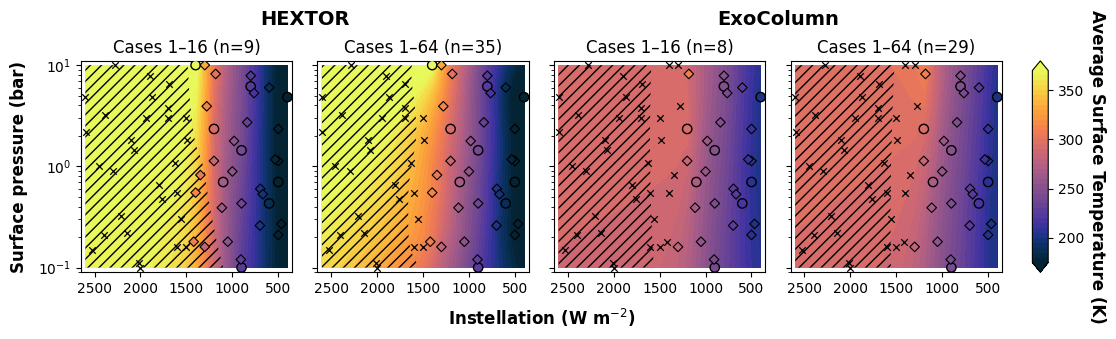
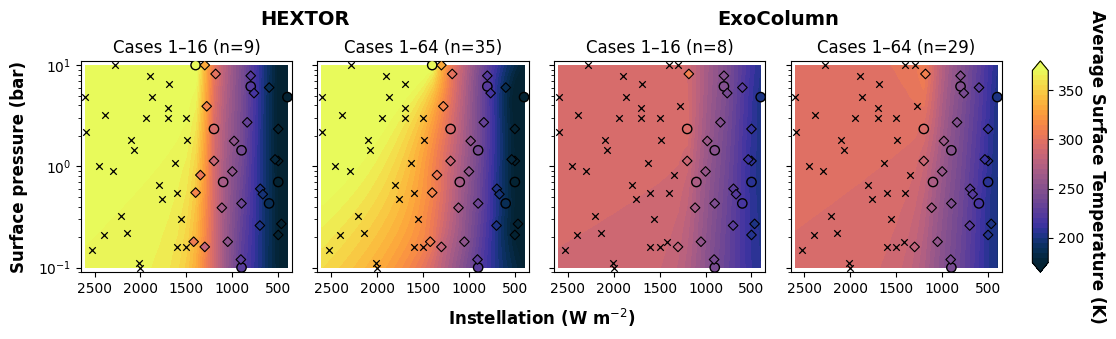
Remove the hatching from Figure 18
The kriging and every printed number are unchanged; only the sigma
hatching and its warm-edge helper are gone.

diff --git a/figures/allcases/fig_interpolation_temp_1d.py b/figures/allcases/fig_interpolation_temp_1d.py
@@ -23,7 +23,6 @@ import cmocean
 
 from matplotlib.transforms import offset_copy
 from pykrige.ok import OrdinaryKriging
-from scipy import ndimage
 
 # Axis labels in bold, and set a little clear of the tick labels
 plt.rcParams[ 'axes.labelweight' ] = 'bold'
@@ -34,7 +33,6 @@ cm              = cmocean.cm.thermal
 contourmin      = 175.0
 contourmax      = 370.0
 cinterval       = 40
-sigma_threshold = 45.0      # K; hatch where kriging σ exceeds this
 cbar_label      = 'Average Surface Temperature (K)'
 cbar_ticks      = np.arange( 200, 370, 50 )
 # ─────────────────────────────────────────────────────────────────────────────
@@ -132,13 +130,6 @@ def kriging( fs, ps, vals, aniso ):
                             anisotropy_scaling=aniso, variogram_model='linear',
                             verbose=False, enable_plotting=False, exact_values=True )
 
-# Of the regions where σ exceeds the threshold, hatch only those reaching the
-# highest instellation on the grid, as in fig_interpolation_temp.py.
-def warm_edge_sigma( sigma ):
-    regions, _ = ndimage.label( sigma > sigma_threshold, structure=np.ones( ( 3, 3 ) ) )
-    dropped    = np.setdiff1d( regions, np.append( regions[ -1, : ], 0 ) )
-    return np.where( np.isin( regions, dropped ), 0.0, sigma )
-
 
 def out_of_sample( name ):
     """The 16-case kriging of one model evaluated at its new stable cases."""
@@ -163,10 +154,8 @@ if __name__ == '__main__':
         temps = MODELS[ name ]
         fs, ps, vals, _ = samples( temps, last )
         aniso = ( ANISO_16 if last == 16 else ANISO_64 )[ name ]
-        z, var = kriging( fs, ps, vals, aniso ).execute( 'grid', norm_pres( pn2 ), norm_flux( flux ) )
+        z, _ = kriging( fs, ps, vals, aniso ).execute( 'grid', norm_pres( pn2 ), norm_flux( flux ) )
         cf = ax.contourf( yv*fluxscale, xv, z, cmap=cm, levels=levels, extend='both' )
-        ax.contourf( yv*fluxscale, xv, warm_edge_sigma( np.sqrt( np.clip( var, 0, None ) ) ), levels=[ sigma_threshold, 1e9 ],
-                     hatches=[ '///' ], colors='none', alpha=0 )
 
         # The same markers in every panel: circles for Cases 1-16, diamonds for
         # 17-64, crosses where the model ran away.
